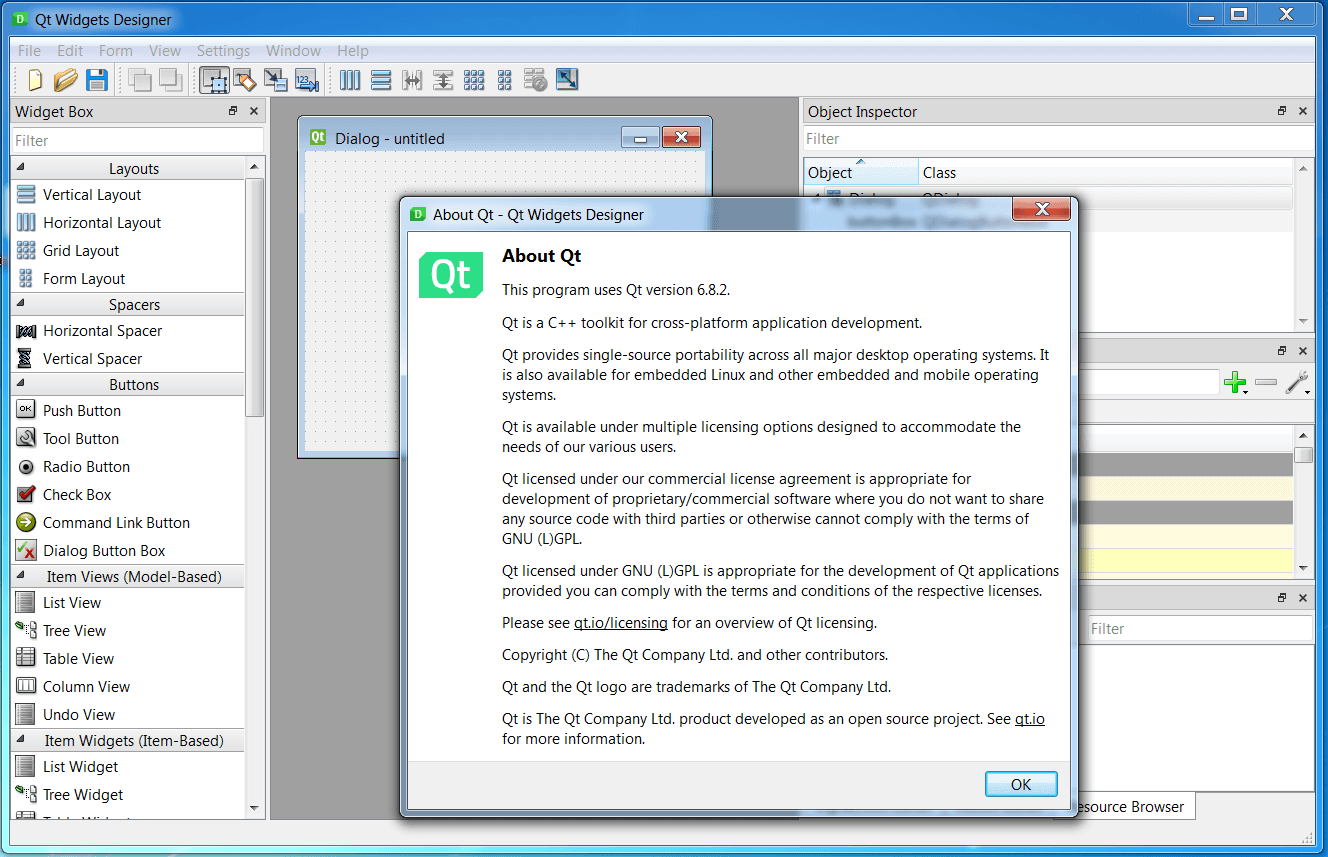
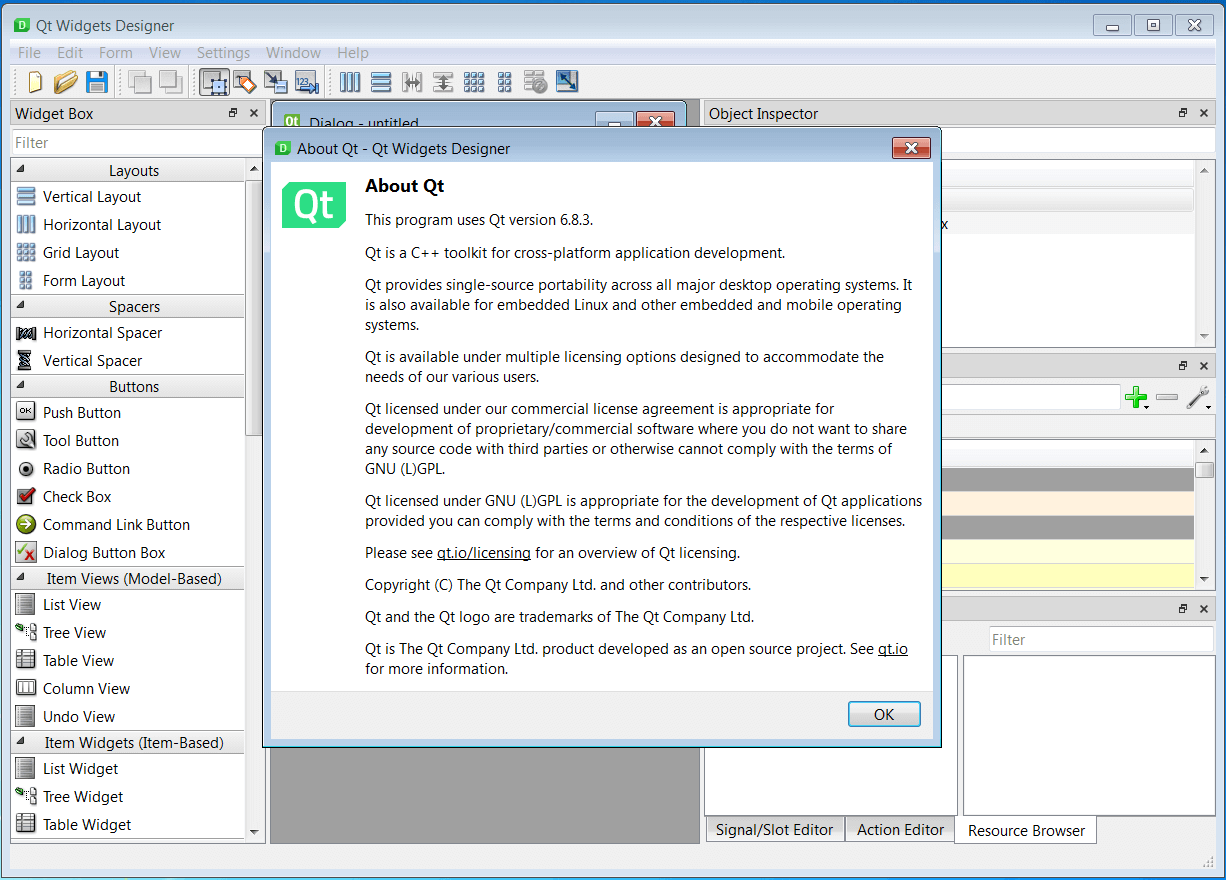
update to Qt 6.8.3

diff --git a/qtbase/src/plugins/platforms/windows/qwindowstheme.cpp b/qtbase/src/plugins/platforms/windows/qwindowstheme.cpp
@@ -306,6 +306,7 @@ void QWindowsTheme::populateLightSystemBasePalette(QPalette &result)
     const QColor background = getSysColor(COLOR_BTNFACE);
     const QColor textColor = getSysColor(COLOR_WINDOWTEXT);
 
+    const QColor accent = qt_accentColor(AccentColorNormal);
     const QColor accentDark = qt_accentColor(AccentColorDark);
     const QColor accentDarker = qt_accentColor(AccentColorDarker);
     const QColor accentDarkest = qt_accentColor(AccentColorDarkest);
@@ -314,7 +315,7 @@ void QWindowsTheme::populateLightSystemBasePalette(QPalette &result)
     const QColor btnFace = background;
     const QColor btnHighlight = getSysColor(COLOR_BTNHIGHLIGHT);
 
-    result.setColor(QPalette::Highlight, getSysColor(COLOR_HIGHLIGHT));
+    result.setColor(QPalette::Highlight, accent);
     result.setColor(QPalette::WindowText, getSysColor(COLOR_WINDOWTEXT));
     result.setColor(QPalette::Button, btnFace);
     result.setColor(QPalette::Light, btnHighlight);

diff --git a/qtbase/src/gui/rhi/qrhid3d12.cpp b/qtbase/src/gui/rhi/qrhid3d12.cpp
@@ -1006,6 +1006,7 @@ void QD3D12CommandBuffer::visitStorageImage(QD3D12Stage s,
     } else if (is3D) {
         uavDesc.ViewDimension = D3D12_UAV_DIMENSION_TEXTURE3D;
         uavDesc.Texture3D.MipSlice = UINT(d.level);
+        uavDesc.Texture3D.WSize = UINT(-1);
     } else {
         uavDesc.ViewDimension = D3D12_UAV_DIMENSION_TEXTURE2D;
         uavDesc.Texture2D.MipSlice = UINT(d.level);
@@ -3659,7 +3660,7 @@ void QRhiD3D12::finishActiveReadbacks(bool forced)
             if (readback.result->completed)
                 completedCallbacks.append(readback.result->completed);
 
-            activeReadbacks.removeLast();
+            activeReadbacks.remove(i);
         }
     }
 

diff --git a/qtbase/src/plugins/platforms/windows/qwindowsintegration.cpp b/qtbase/src/plugins/platforms/windows/qwindowsintegration.cpp
@@ -105,7 +105,7 @@ struct QWindowsIntegrationPrivate
 #if QT_CONFIG(accessibility)
    QWindowsUiaAccessibility m_accessibility;
 #endif
-    QWindowsServices m_services;
+    mutable QScopedPointer<QWindowsServices> m_services;
 };
 
 template <typename IntType>
@@ -606,7 +606,10 @@ QPlatformTheme *QWindowsIntegration::createPlatformTheme(const QString &name) co
 
 QPlatformServices *QWindowsIntegration::services() const
 {
-    return &d->m_services;
+    if (d->m_services.isNull())
+        d->m_services.reset(new QWindowsServices);
+
+    return d->m_services.data();
 }
 
 void QWindowsIntegration::beep() const

diff --git a/qtbase/src/widgets/styles/qwindowsstyle.cpp b/qtbase/src/widgets/styles/qwindowsstyle.cpp
@@ -798,7 +798,7 @@ void QWindowsStyle::drawPrimitive(PrimitiveElement pe, const QStyleOption *opt, 
     case PE_FrameFocusRect:
         if (const QStyleOptionFocusRect *fropt = qstyleoption_cast<const QStyleOptionFocusRect *>(opt)) {
             //### check for d->alt_down
-            if (!(fropt->state & State_KeyboardFocusChange) && !proxy()->styleHint(SH_UnderlineShortcut, opt))
+            if (!(fropt->state & State_KeyboardFocusChange) && !proxy()->styleHint(SH_UnderlineShortcut, opt, w))
                 return;
             QRect r = opt->rect;
             p->save();

diff --git a/qtbase/src/gui/rhi/qrhid3d11.cpp b/qtbase/src/gui/rhi/qrhid3d11.cpp
@@ -3609,6 +3609,7 @@ ID3D11UnorderedAccessView *QD3D11Texture::unorderedAccessViewForLevel(int level)
     } else if (is3D) {
         desc.ViewDimension = D3D11_UAV_DIMENSION_TEXTURE3D;
         desc.Texture3D.MipSlice = UINT(level);
+        desc.Texture3D.WSize = UINT(m_depth);
     } else {
         desc.ViewDimension = D3D11_UAV_DIMENSION_TEXTURE2D;
         desc.Texture2D.MipSlice = UINT(level);

diff --git a/qtbase/src/corelib/thread/qmutex.cpp b/qtbase/src/corelib/thread/qmutex.cpp
@@ -651,7 +651,7 @@ void QBasicMutex::lockInternal() QT_MUTEX_LOCK_NOEXCEPT
         }
         Q_ASSERT(d_ptr.loadRelaxed());
     } else {
-        lockInternal(-1);
+        lockInternal(QDeadlineTimer::Forever);
     }
 }
 

diff --git a/README.md b/README.md
@@ -1,10 +1,12 @@
-This repository provides a backport of the Qt 6.8.2 qtbase module, tailored for compatibility with Windows 7, 8 and 8.1. It contains patched source files from the qtbase module, along with some additional required files. To apply the backport, simply copy the contents of the src folder into your qtbase/src directory, replacing the existing files.
+This repository provides a backport of the Qt 6 qtbase module, tailored for compatibility with Windows 7, 8 and 8.1. It contains patched source files from the qtbase module, along with some additional required files. To apply the backport, simply copy the contents of the src folder into your qtbase/src directory, replacing the existing files.
+
+The most recent supported version is **6.8.3** however many older versions are supported as well (see **Older versions** section).
 
 This approach builds upon the methodology discussed in this forum [thread](https://forum.qt.io/topic/133002/qt-creator-6-0-1-and-qt-6-2-2-running-on-windows-7/60) but offers significant enhancements, including important fallbacks to the default Qt 6 behavior when running on newer versions of Windows.
 
 You can compile it yourself using your preferred compiler and build options or can use our [compile_win.pl](https://github.com/crystalidea/qt-build-tools/tree/master/6.8.1) build script, which utilizes Visual C++ 2022 and includes OpenSSL 3.0.13 statically linked. Alternatively, you can download our [prebuild Qt dlls](https://github.com/crystalidea/qt6windows7/releases), which also include the Qt Designer binary for demonstration purposes.
 
-**Qt 6.8.2 designer running on Windows 7**:
+**Qt 6.8.3 designer running on Windows 7**:
 
 ![Qt Designer](designer.png)
 
@@ -23,6 +25,7 @@ Many of other Qt 6 modules are known to work fine on Windows 7 without modificat
 
 ### Older versions:
 
+- [Qt 6.8.2](https://github.com/crystalidea/qt6windows7/releases/tag/v6.8.2)
 - [Qt 6.8.1](https://github.com/crystalidea/qt6windows7/releases/tag/v6.8.1)
 - [Qt 6.8.0](https://github.com/crystalidea/qt6windows7/releases/tag/v6.8.0)
 - [Qt 6.7.2](https://github.com/crystalidea/qt6windows7/releases/tag/v6.7.2)
